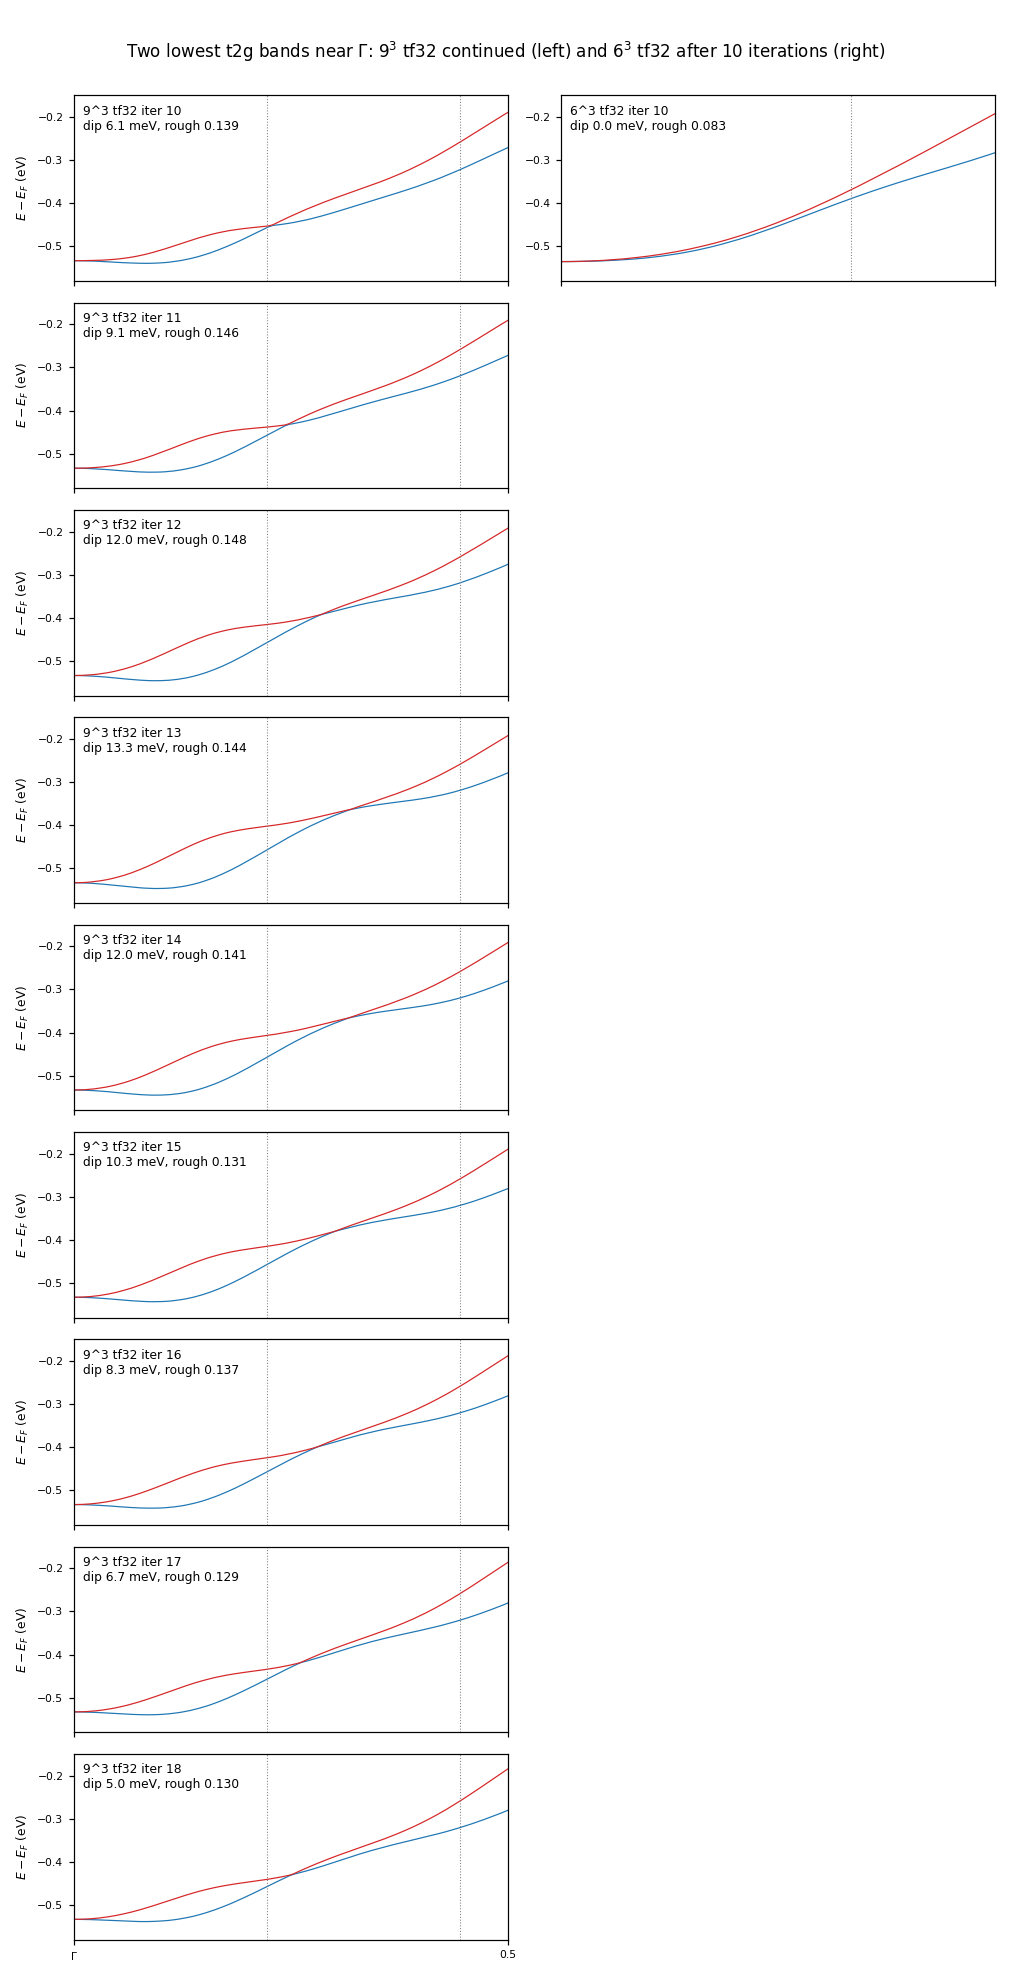
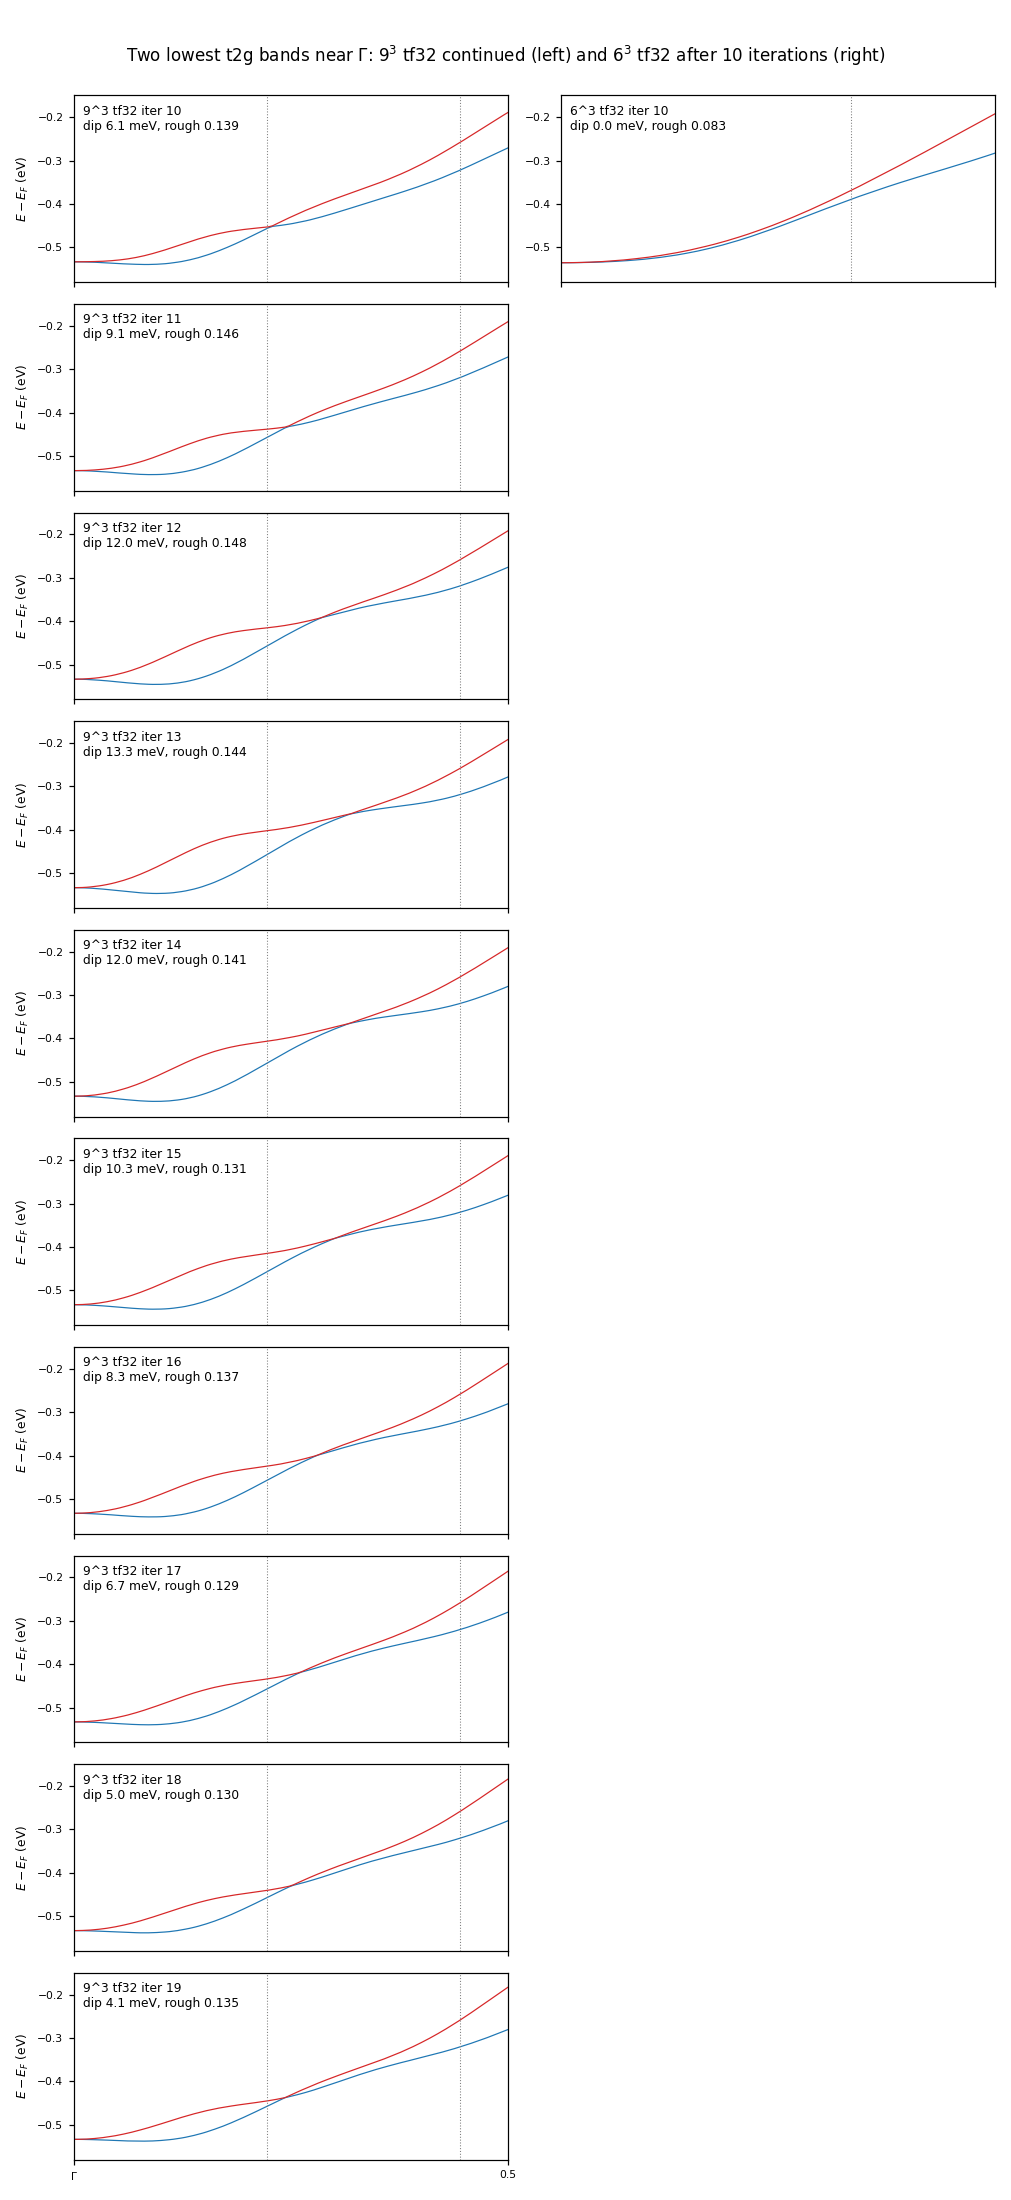
kBT_research: 9^3 continuation iteration 19

diff --git a/Samples/kBT/kBT_research.md b/Samples/kBT/kBT_research.md
@@ -83,6 +83,10 @@
 
 （夜の TODO: 6³・9³ の tf32 の収束、FP16 の確かめ (a)〜(c)、検証、kBT の残り、ファイルの統一、速さの残り、文書の整理）
 
+### 06:59 **9³ の続き、反復 19: 沈み込み 4.1 meV、2/9 の差 11.3 meV、1/3 の差 16.1 meV（6³ は 7.6、20.4）。反復ごとの変化は最大 4.6 meV**
+
+- 反復 19（06:55 に終わり、1257 秒）: ehf −109763.316397 eV（18 から −0.043 eV）。1 eV のこぶは 1.101 eV
+
 ### 06:35 **9³ の続き、反復 18: 沈み込み 5.0 meV、2/9 の差 15.5 meV、1/3 の差 15.1 meV。交差はほぼほどけた**
 
 - 反復 18（06:32 に終わり、1262 秒）: ehf −109763.273661 eV（17 から −0.077 eV）。17→18 の占有の 2 本の変化 最大 6.7・rms 3.0 meV。1 eV のこぶは 1.104 eV
